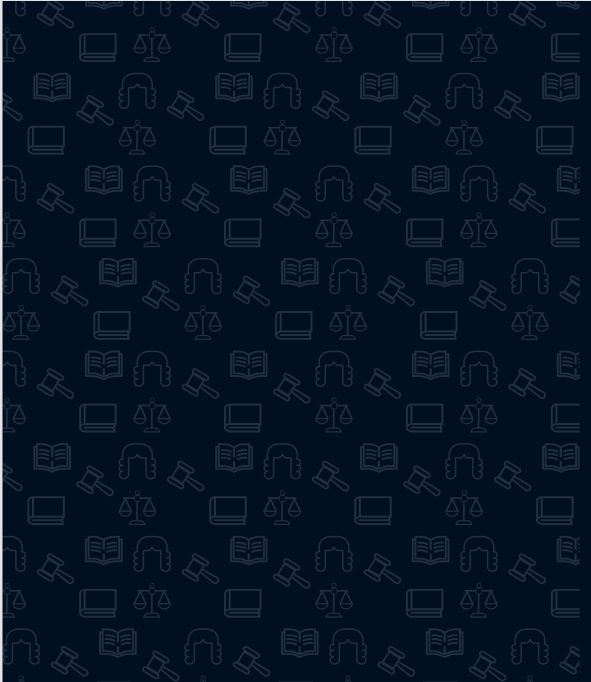
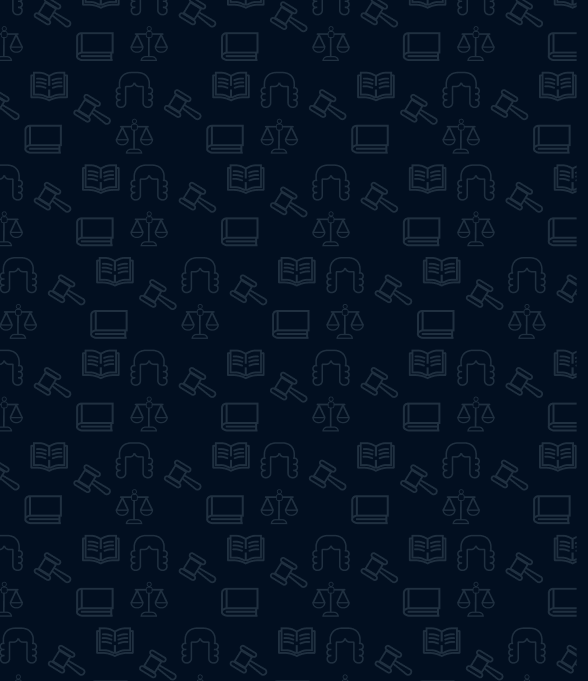
feat: initialize global CSS with Tailwind configuration and custom assets

diff --git a/src/index.css b/src/index.css
@@ -25,7 +25,7 @@
 
 .pattern-bg {
   /* Use the exact background image provided by the user */
-  background-image: url("./assets/bg-pattern.png?v=2");
+  background-image: url("./assets/bg-pattern.png?v=3");
   background-size: 350px; /* Adjust this value if the icons look too big or small */
   background-position: top left;
   background-repeat: repeat;